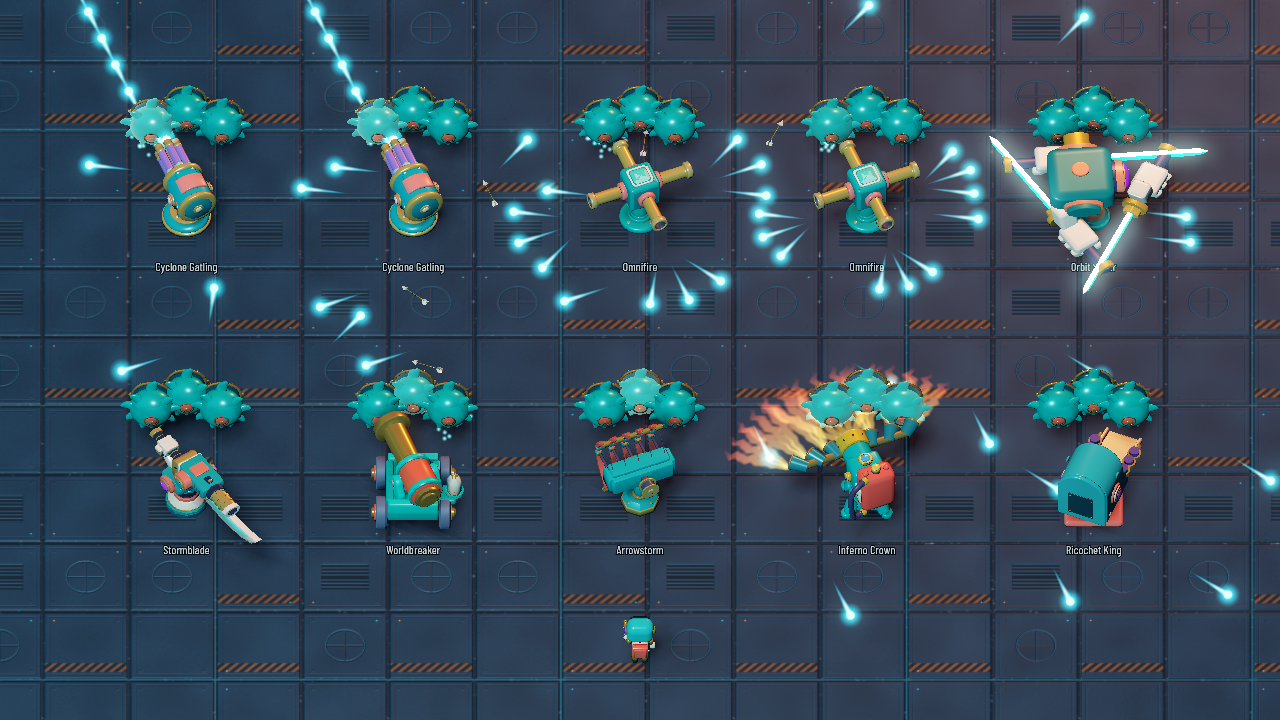
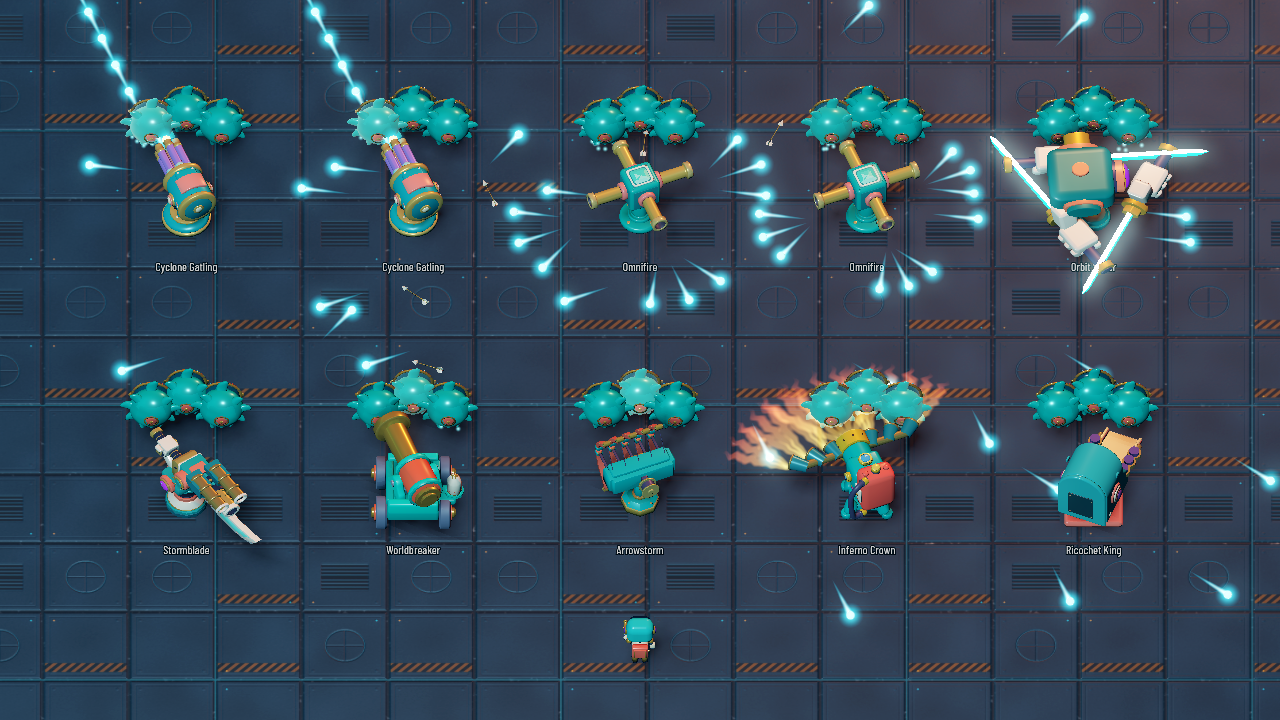
✨ Give Gunblade evolutions distinct working burst barrels

diff --git a/doc/plans/turret-expansion-progress.md b/doc/plans/turret-expansion-progress.md
@@ -91,3 +91,7 @@ Updated all six portraits. Native close and default-zoom reviews show distinct f
 Heavy Roller / Demolition Roller / Juggernaut widen and reinforce the authored return housing with one / two / three paired hydraulic braces. The loaded ball stays spherical as it grows; the muzzle height scales exactly with its projectile collision radius. Ramp and plinth widen to support the larger payload. Bank Shot / Pinball Engine / Ricochet King gain one / two / three bumper pairs on the ramp and a pair of brass launch paddles. The paddles kick on firing and settle after 0.22 seconds; Reduced Motion keeps them still. Collision and ricochet mechanics remain unchanged.
 
 All six portraits regenerated; dark-background comparison reviewed. Regression coverage checks spherical loaded balls, radius-to-launch-height agreement at all stages, staged hardware counts, mirrored paddle movement, settling and Reduced Motion.
+
+### Gunblade visual evolution
+
+Repeater Blade adds a second open brass barrel above the authored gun; Stormblade adds two upper barrels for a triangular three-barrel assembly. Teal receivers connect the new hardware while leaving the curved ivory blade exposed. Every burst round launches from its corresponding visible muzzle and follows the rotating assembly. The authored base, arm, grip and blade remain intact. Updated both later-form shop portraits and reviewed their silhouettes. Regression assertions cover barrel counts at each stage, distinct shot origins, rotating headings and original source attribution.
